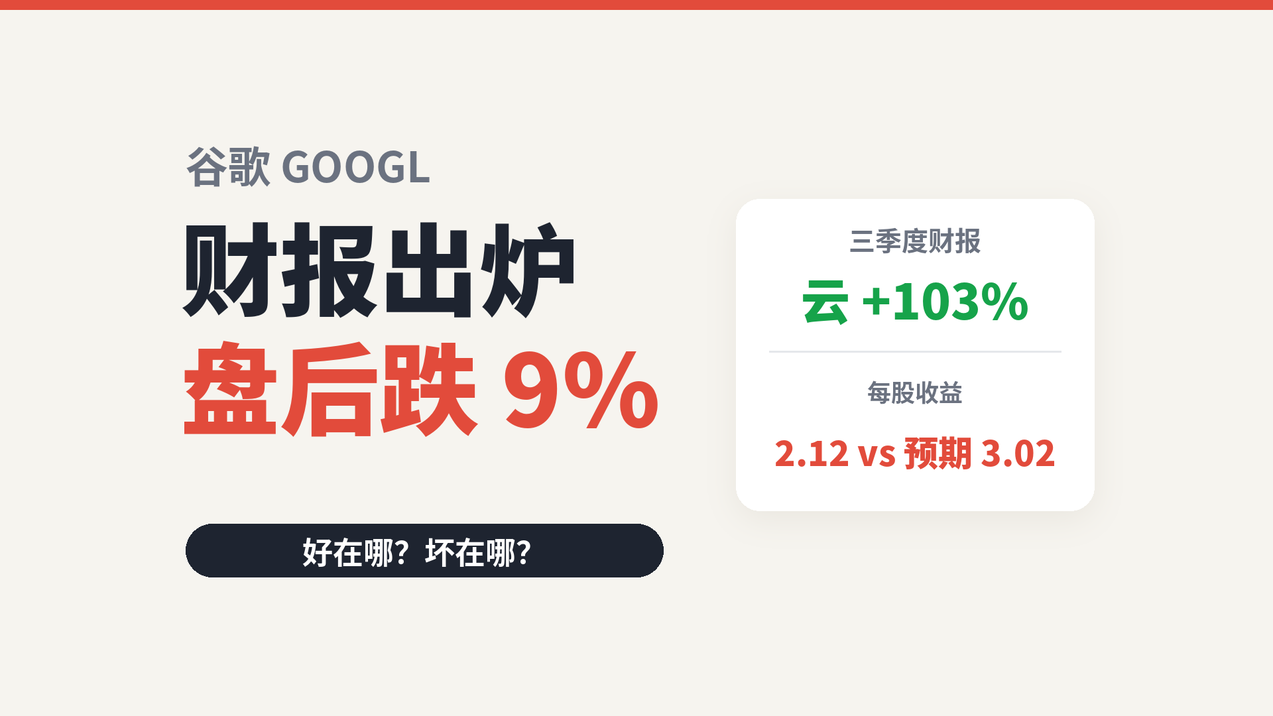
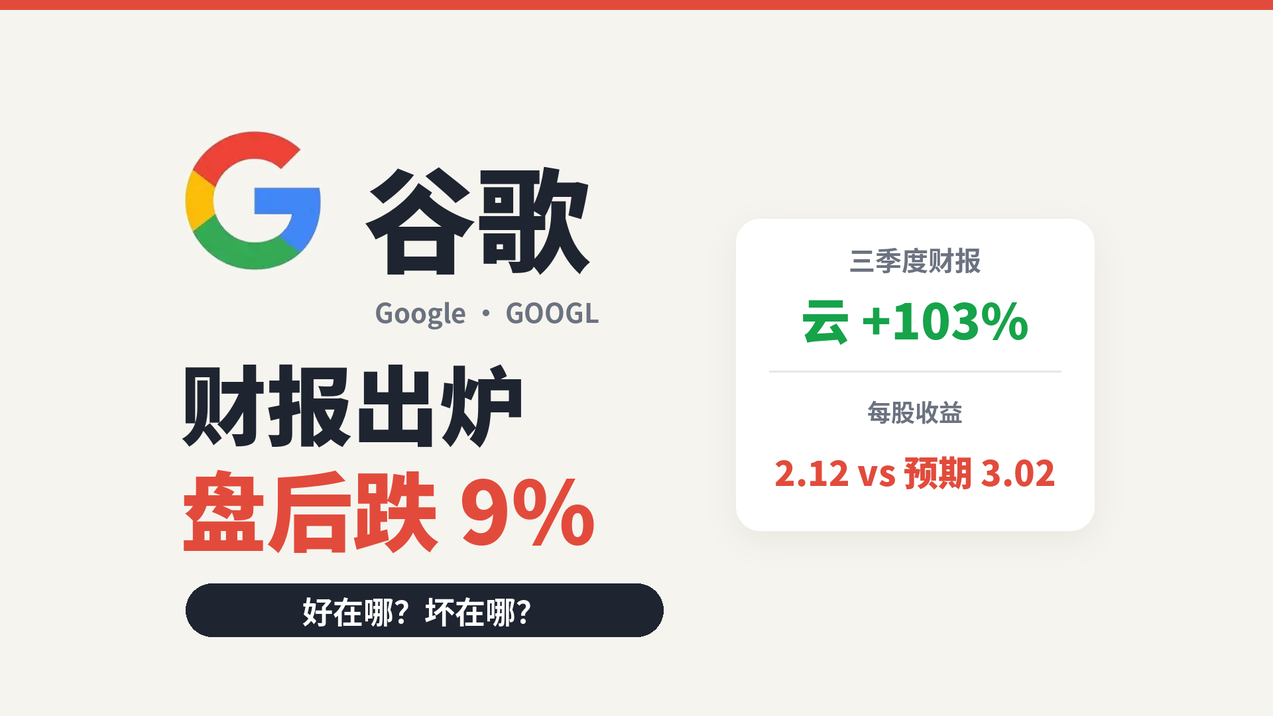
谷歌封面：加 G 标志和大字谷歌
Claude-Session: https://claude.ai/code/session_015ea4NsPFBFsDCRBdgbtW5b

Changed region(s): [[0.1225, 0.1844, 0.5208, 0.8911], [0.5821, 0.5223, 0.8578, 0.7374], [0.6127, 0.3073, 0.8272, 0.4916]]

diff --git a/ws/goog1028/cover.py b/ws/goog1028/cover.py
@@ -15,19 +15,25 @@ def panel(im, x0, y0, w):
     d.line((x0 + 50, y0 + 230, x0 + w - 50, y0 + 230), fill='#E5E7EB', width=3)
     d.text((cx, y0 + 290), '每股收益', font=font('b', 36), fill=DIM, anchor='mm')
     d.text((cx, y0 + 380), '2.12 vs 预期 3.02', font=font('k', 52), fill=RED, anchor='mm')
+LOGO = Image.open('g_logo.png')
+def logo(im, x, y, h):
+    l = LOGO.resize((int(LOGO.width * h / LOGO.height), h), Image.LANCZOS); im.paste(l, (x, y), l); return l.width
 def wide():
     W, H = 1920, 1080; im = Image.new('RGB', (W, H), BG); d = ImageDraw.Draw(im); d.rectangle((0, 0, W, 14), fill=RED)
-    d.text((280, 200), '谷歌 GOOGL', font=font('b', 64), fill=DIM)
-    d.text((272, 290), '财报出炉', font=font('k', 150), fill=INK)
-    d.text((272, 470), '盘后跌 9%', font=font('k', 150), fill=RED)
-    d.rounded_rectangle((280, 790, 1000, 870), 40, fill=INK); d.text((640, 830), '好在哪？坏在哪？', font=font('b', 46), fill='#FFFFFF', anchor='mm')
-    panel(im, 1110, 300, 540); return im
+    lw = logo(im, 270, 190, 230)
+    d.text((270 + lw + 40, 200), '谷歌', font=font('k', 170), fill=INK)
+    d.text((280 + lw + 46, 440), 'Google · GOOGL', font=font('b', 40), fill=DIM)
+    d.text((272, 510), '财报出炉', font=font('k', 130), fill=INK)
+    d.text((272, 670), '盘后跌 9%', font=font('k', 130), fill=RED)
+    d.rounded_rectangle((280, 880, 1000, 960), 40, fill=INK); d.text((640, 920), '好在哪？坏在哪？', font=font('b', 46), fill='#FFFFFF', anchor='mm')
+    panel(im, 1110, 330, 540); return im
 def tall():
     W, H = 1080, 1440; im = Image.new('RGB', (W, H), BG); d = ImageDraw.Draw(im); d.rectangle((0, 0, W, 12), fill=RED)
-    d.text((W // 2, 140), '谷歌 GOOGL', font=font('b', 56), fill=DIM, anchor='mm')
-    d.text((W // 2, 290), '财报出炉', font=font('k', 150), fill=INK, anchor='mm')
-    d.text((W // 2, 470), '盘后跌 9%', font=font('k', 140), fill=RED, anchor='mm')
-    panel(im, 140, 640, 800)
+    lh = 200; lw = int(LOGO.width * lh / LOGO.height); tw = d.textlength('谷歌', font=font('k', 170)); x0 = int((W - lw - 40 - tw) / 2)
+    logo(im, x0, 70, lh); d.text((x0 + lw + 40, 60), '谷歌', font=font('k', 170), fill=INK)
+    d.text((W // 2, 370), '财报出炉', font=font('k', 130), fill=INK, anchor='mm')
+    d.text((W // 2, 525), '盘后跌 9%', font=font('k', 130), fill=RED, anchor='mm')
+    panel(im, 140, 660, 800)
     d = ImageDraw.Draw(im); d.rounded_rectangle((W // 2 - 300, 1250, W // 2 + 300, 1340), 45, fill=INK); d.text((W // 2, 1295), '好在哪？坏在哪？', font=font('b', 48), fill='#FFFFFF', anchor='mm')
     return im
 if __name__ == '__main__':
